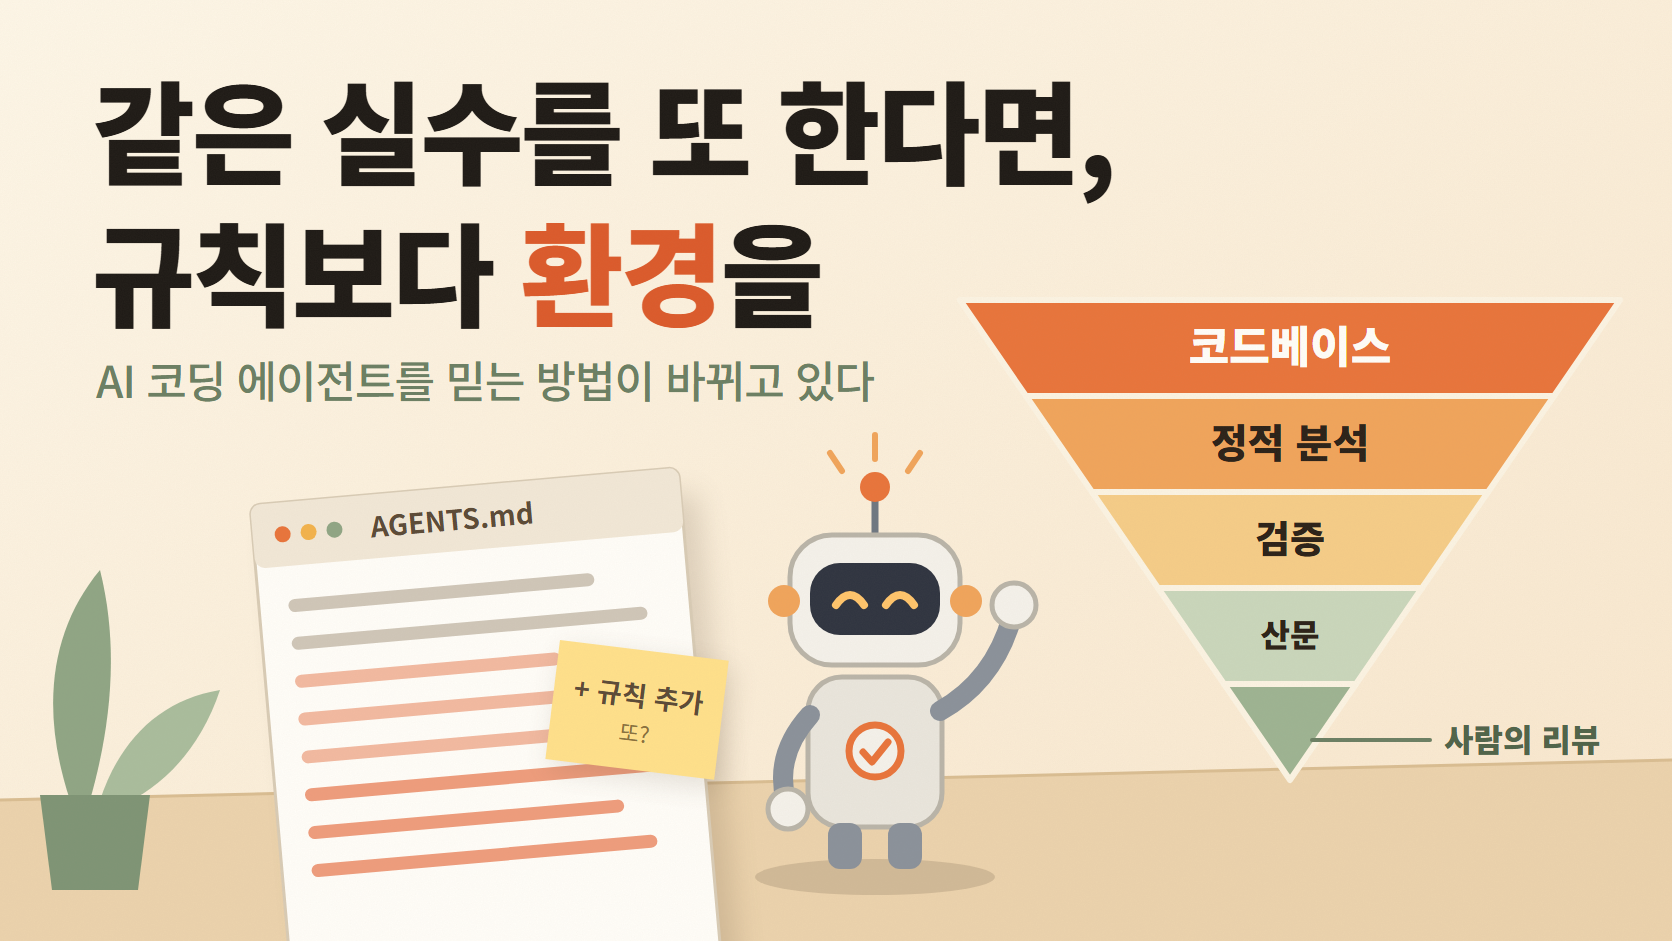
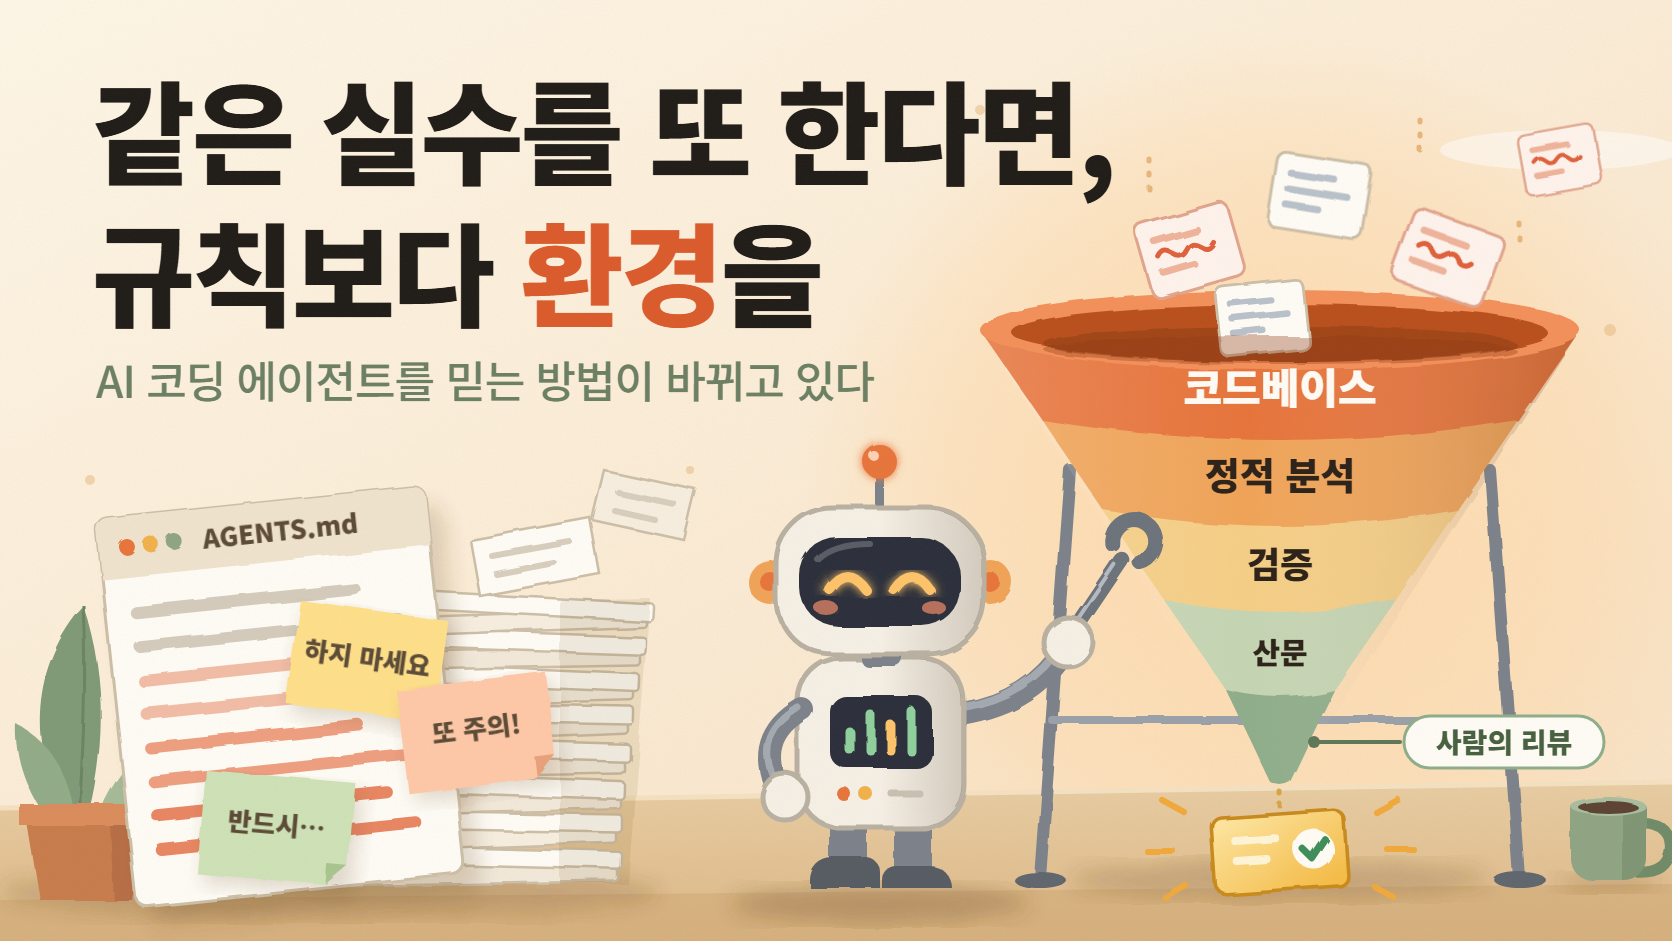
Redraw thumbnail for trusting AI coding agents essay
휑하던 섬네일을 규칙 더미와 깔때기를 조이는 로봇 장면으로 다시 그린다.

diff --git a/_meta/scripts/thumbnail-2026-11-18-trusting-ai-coding-agents.html b/_meta/scripts/thumbnail-2026-11-18-trusting-ai-coding-agents.html
@@ -13,101 +13,270 @@
 <body>
 <svg xmlns="http://www.w3.org/2000/svg" width="1672" height="941" viewBox="0 0 1672 941">
   <defs>
-    <linearGradient id="bg" x1="0" y1="0" x2="1" y2="1">
-      <stop offset="0" stop-color="#FDF6E7"/>
-      <stop offset="1" stop-color="#F8E6CC"/>
+    <linearGradient id="bg" x1="0" y1="0" x2="0.9" y2="1">
+      <stop offset="0" stop-color="#FEF7E8"/>
+      <stop offset="1" stop-color="#F9E3C6"/>
+    </linearGradient>
+    <radialGradient id="sun" cx="0.5" cy="0.5" r="0.5">
+      <stop offset="0" stop-color="#FFD9A8" stop-opacity="0.95"/>
+      <stop offset="0.7" stop-color="#FFD9A8" stop-opacity="0.45"/>
+      <stop offset="1" stop-color="#FFD9A8" stop-opacity="0"/>
+    </radialGradient>
+    <linearGradient id="desk" x1="0" y1="0" x2="0" y2="1">
+      <stop offset="0" stop-color="#E9CDA3"/>
+      <stop offset="1" stop-color="#DDB988"/>
+    </linearGradient>
+    <linearGradient id="coneShade" x1="0" y1="0" x2="1" y2="0">
+      <stop offset="0" stop-color="#FFFFFF" stop-opacity="0.16"/>
+      <stop offset="0.45" stop-color="#FFFFFF" stop-opacity="0"/>
+      <stop offset="1" stop-color="#5A2A0C" stop-opacity="0.26"/>
+    </linearGradient>
+    <linearGradient id="bodyShade" x1="0" y1="0" x2="1" y2="0">
+      <stop offset="0.5" stop-color="#6B5A45" stop-opacity="0"/>
+      <stop offset="1" stop-color="#6B5A45" stop-opacity="0.24"/>
+    </linearGradient>
+    <linearGradient id="gold" x1="0" y1="0" x2="1" y2="1">
+      <stop offset="0" stop-color="#FFE9A6"/>
+      <stop offset="1" stop-color="#F5B93F"/>
     </linearGradient>
     <filter id="grain" x="0" y="0" width="100%" height="100%">
-      <feTurbulence type="fractalNoise" baseFrequency="0.85" numOctaves="2" seed="7"/>
-      <feColorMatrix values="0 0 0 0 0.45  0 0 0 0 0.36  0 0 0 0 0.24  0 0 0 0.10 0"/>
+      <feTurbulence type="fractalNoise" baseFrequency="0.8" numOctaves="2" seed="11"/>
+      <feColorMatrix values="0 0 0 0 0.42  0 0 0 0 0.33  0 0 0 0 0.22  0 0 0 0.11 0"/>
     </filter>
-    <filter id="soft" x="-20%" y="-20%" width="140%" height="140%">
-      <feGaussianBlur stdDeviation="14"/>
+    <filter id="wobble" x="-5%" y="-5%" width="110%" height="110%">
+      <feTurbulence type="fractalNoise" baseFrequency="0.018" numOctaves="2" seed="4" result="n"/>
+      <feDisplacementMap in="SourceGraphic" in2="n" scale="7"/>
     </filter>
+    <filter id="blur10"><feGaussianBlur stdDeviation="10"/></filter>
+    <filter id="blur18"><feGaussianBlur stdDeviation="18"/></filter>
+    <filter id="glow" x="-50%" y="-50%" width="200%" height="200%">
+      <feGaussianBlur stdDeviation="5" result="b"/>
+      <feMerge><feMergeNode in="b"/><feMergeNode in="SourceGraphic"/></feMerge>
+    </filter>
+    <clipPath id="coneClip"><path d="M980 330 H1580 L1290 782 H1270 Z"/></clipPath>
+
+    <!-- small code card -->
+    <g id="card">
+      <rect x="-48" y="-38" width="96" height="76" rx="9" fill="#FFFDF7" stroke="#CDBFA8" stroke-width="3"/>
+      <path d="M-32 -18 H12 M-32 -2 H28 M-32 14 H0" stroke="#B9C2CC" stroke-width="7" stroke-linecap="round"/>
+    </g>
+    <g id="slop">
+      <rect x="-48" y="-38" width="96" height="76" rx="9" fill="#FFF4EE" stroke="#E2A58D" stroke-width="3"/>
+      <path d="M-32 -18 H12 M-32 14 H0" stroke="#F0B49C" stroke-width="7" stroke-linecap="round"/>
+      <path d="M-32 -2 q7 -8 14 0 t14 0 t14 0 t14 0" stroke="#E0603A" stroke-width="5" fill="none" stroke-linecap="round"/>
+    </g>
   </defs>
 
+  <!-- ===== backdrop ===== -->
   <rect width="1672" height="941" fill="url(#bg)"/>
+  <circle cx="1270" cy="500" r="470" fill="url(#sun)"/>
+  <g fill="#FFFFFF" opacity="0.5">
+    
+    <ellipse cx="1560" cy="150" rx="120" ry="20"/>
+  </g>
+  <g fill="#E8B77A" opacity="0.5">
+    <circle cx="980" cy="110" r="5"/><circle cx="1610" cy="330" r="6"/><circle cx="690" cy="470" r="4"/><circle cx="90" cy="480" r="5"/>
+  </g>
+
   <!-- desk -->
-  <path d="M0 800 L1672 760 L1672 941 L0 941 Z" fill="#EBD2AC"/>
-  <path d="M0 800 L1672 760" stroke="#D9BD92" stroke-width="3"/>
+  <path d="M0 808 L1672 782 V941 H0 Z" fill="url(#desk)"/>
+  <path d="M0 808 L1672 782" stroke="#F5E2C2" stroke-width="5"/>
+  <path d="M0 900 L1672 884 V941 H0 Z" fill="#CFA774" opacity="0.5"/>
 
-  <!-- plant -->
-  <g transform="translate(30 560)">
-    <path d="M40 240 C10 150 20 70 70 10 C90 90 80 170 60 240 Z" fill="#8FA584"/>
-    <path d="M70 240 C90 180 130 140 190 130 C170 190 130 230 90 245 Z" fill="#A9BC9C"/>
-    <path d="M10 235 H120 L108 330 H22 Z" fill="#7E9475"/>
-  </g>
+  <g filter="url(#wobble)">
+    <!-- ===== left: the rule pile ===== -->
+    <ellipse cx="330" cy="892" rx="330" ry="26" fill="#6B4A22" opacity="0.22" filter="url(#blur10)"/>
+    <!-- plant -->
+    <g transform="translate(18 600)">
+      <path d="M52 220 C6 150 14 62 66 6 C92 84 86 160 70 220 Z" fill="#7F9A78"/>
+      <path d="M66 6 C70 80 66 150 62 220" stroke="#6A8463" stroke-width="3" fill="none"/>
+      <path d="M78 222 C100 160 142 124 204 116 C182 178 140 214 98 228 Z" fill="#A5BB98"/>
+      <path d="M36 228 C10 196 -4 160 -2 124 C34 142 54 180 58 226 Z" fill="#92AC88"/>
+      <path d="M8 216 H128 L114 300 H22 Z" fill="#C97B4E"/>
+      <path d="M2 204 H134 V226 H2 Z" fill="#DB8C5C"/>
+      <path d="M92 226 H128 L114 300 H96 Z" fill="#6B3A1E" opacity="0.18"/>
+    </g>
+    <!-- leaning stack of sheets -->
+    <g stroke="#CDBFA8" stroke-width="2.5">
+      <rect x="318" y="866" width="300" height="18" rx="4" fill="#F3EADB" transform="rotate(-1 468 875)"/>
+      <rect x="330" y="848" width="292" height="18" rx="4" fill="#FFFDF7" transform="rotate(1.5 476 857)"/>
+      <rect x="312" y="830" width="304" height="18" rx="4" fill="#F7EFE1" transform="rotate(-2 464 839)"/>
+      <rect x="326" y="812" width="296" height="18" rx="4" fill="#FFFDF7" transform="rotate(1 474 821)"/>
+      <rect x="320" y="794" width="300" height="18" rx="4" fill="#F3EADB" transform="rotate(-1.5 470 803)"/>
+      <rect x="334" y="776" width="290" height="18" rx="4" fill="#FFFDF7" transform="rotate(2 479 785)"/>
+      <rect x="322" y="758" width="302" height="18" rx="4" fill="#F7EFE1" transform="rotate(-1 473 767)"/>
+      <rect x="338" y="740" width="292" height="18" rx="4" fill="#FFFDF7" transform="rotate(1.5 484 749)"/>
+      <rect x="330" y="722" width="298" height="18" rx="4" fill="#F3EADB" transform="rotate(-2.5 479 731)"/>
+      <rect x="344" y="704" width="290" height="18" rx="4" fill="#FFFDF7" transform="rotate(1 489 713)"/>
+      <rect x="338" y="686" width="296" height="18" rx="4" fill="#F7EFE1" transform="rotate(-1.5 486 695)"/>
+      <rect x="352" y="668" width="288" height="18" rx="4" fill="#FFFDF7" transform="rotate(2.5 496 677)"/>
+      <rect x="346" y="650" width="294" height="18" rx="4" fill="#F3EADB" transform="rotate(-1 493 659)"/>
+      <rect x="360" y="632" width="286" height="18" rx="4" fill="#FFFDF7" transform="rotate(2 503 641)"/>
+      <rect x="356" y="614" width="290" height="18" rx="4" fill="#F7EFE1" transform="rotate(-2 501 623)"/>
+      <rect x="372" y="596" width="282" height="18" rx="4" fill="#FFFDF7" transform="rotate(3 513 605)"/>
+    </g>
+    <path d="M560 600 L650 598 L628 884 L560 884 Z" fill="#6B4A22" opacity="0.10"/>
+    <!-- flying sheets -->
+    <g stroke="#CDBFA8" stroke-width="2.5" fill="#FFFDF7">
+      <path d="M470 540 l120 -22 l10 56 l-120 22 Z"/>
+      <path d="M604 470 l92 20 l-12 50 l-92 -20 Z" fill="#F7EFE1"/>
+    </g>
+    <path d="M492 556 l78 -14 M496 574 l58 -11" stroke="#D9CFBF" stroke-width="6" stroke-linecap="round"/>
+    <path d="M618 492 l56 12 M614 510 l40 9" stroke="#D9CFBF" stroke-width="6" stroke-linecap="round"/>
 
-  <!-- the ever-growing rule sheet -->
-  <g transform="translate(250 505) rotate(-5)">
-    <rect x="18" y="26" width="430" height="520" rx="10" fill="#5B4A36" opacity="0.18" filter="url(#soft)"/>
-    <rect x="0" y="0" width="430" height="520" rx="10" fill="#FFFDF8" stroke="#D8CBB5" stroke-width="3"/>
-    <rect x="0" y="0" width="430" height="64" rx="10" fill="#F1E7D6"/>
-    <circle cx="30" cy="32" r="8" fill="#E8743B"/><circle cx="56" cy="32" r="8" fill="#F2B24C"/><circle cx="82" cy="32" r="8" fill="#8FA584"/>
-    <text x="118" y="43" font-size="28" font-weight="700" fill="#5B4A36">AGENTS.md</text>
-    <g stroke-linecap="round" stroke-width="13">
-      <path d="M36 104 H330" stroke="#CFC6B8"/>
-      <path d="M36 142 H380" stroke="#CFC6B8"/>
-      <path d="M36 180 H290" stroke="#F2B9A0"/>
-      <path d="M36 218 H360" stroke="#F2B9A0"/>
-      <path d="M36 256 H310" stroke="#F2B9A0"/>
-      <path d="M36 294 H384" stroke="#EE9C7C"/>
-      <path d="M36 332 H340" stroke="#EE9C7C"/>
-      <path d="M36 370 H370" stroke="#EE9C7C"/>
+    <!-- the front sheet -->
+    <g transform="translate(96 520) rotate(-6)">
+      <rect x="14" y="20" width="330" height="390" rx="12" fill="#6B4A22" opacity="0.2" filter="url(#blur10)"/>
+      <rect width="330" height="390" rx="12" fill="#FFFDF7" stroke="#CDBFA8" stroke-width="3"/>
+      <path d="M0 12 a12 12 0 0 1 12 -12 H318 a12 12 0 0 1 12 12 V60 H0 Z" fill="#F0E4CF"/>
+      <circle cx="28" cy="30" r="8" fill="#E8743B"/><circle cx="52" cy="30" r="8" fill="#F2B24C"/><circle cx="76" cy="30" r="8" fill="#8FA584"/>
+      <g stroke-linecap="round" stroke-width="12">
+        <path d="M30 96 H250" stroke="#D5CCBD"/>
+        <path d="M30 130 H290" stroke="#D5CCBD"/>
+        <path d="M30 164 H220" stroke="#F3BDA6"/>
+        <path d="M30 198 H280" stroke="#F3BDA6"/>
+        <path d="M30 232 H240" stroke="#EF9F80"/>
+        <path d="M30 266 H296" stroke="#EF9F80"/>
+        <path d="M30 300 H260" stroke="#EA8663"/>
+        <path d="M30 334 H286" stroke="#EA8663"/>
+      </g>
+    </g>
+    <!-- sticky notes -->
+    <g transform="translate(300 600) rotate(8)">
+      <rect x="6" y="8" width="150" height="104" fill="#6B4A22" opacity="0.2" filter="url(#blur10)"/>
+      <path d="M0 0 H150 V84 L130 104 H0 Z" fill="#FFE08A"/><path d="M150 84 L130 104 V84 Z" fill="#E9C25E"/>
+    </g>
+    <g transform="translate(396 690) rotate(-7)">
+      <rect x="6" y="8" width="150" height="104" fill="#6B4A22" opacity="0.2" filter="url(#blur10)"/>
+      <path d="M0 0 H150 V84 L130 104 H0 Z" fill="#FFC9A8"/><path d="M150 84 L130 104 V84 Z" fill="#E9A27C"/>
+    </g>
+    <g transform="translate(206 770) rotate(5)">
+      <rect x="6" y="8" width="150" height="104" fill="#6B4A22" opacity="0.2" filter="url(#blur10)"/>
+      <path d="M0 0 H150 V84 L130 104 H0 Z" fill="#CFE3B8"/><path d="M150 84 L130 104 V84 Z" fill="#A9C590"/>
+    </g>
+
+    <!-- ===== right: the funnel ===== -->
+    <ellipse cx="1280" cy="880" rx="210" ry="20" fill="#6B4A22" opacity="0.22" filter="url(#blur10)"/>
+    <!-- stand -->
+    <g stroke="#7B828B" stroke-width="12" stroke-linecap="round" fill="none">
+      <path d="M1070 470 L1040 878"/><path d="M1490 470 L1520 878"/>
+      <path d="M1052 720 H1508" stroke="#9AA1A9" stroke-width="8"/>
+    </g>
+    <ellipse cx="1040" cy="880" rx="26" ry="8" fill="#5F666E"/><ellipse cx="1520" cy="880" rx="26" ry="8" fill="#5F666E"/>
+    <!-- cone bands, tip first -->
+    <path d="M1226 690 H1334 L1290 782 Q1280 788 1270 782 Z" fill="#8FAE8B"/>
+    <path d="M1164 600 H1396 L1334 690 Q1280 704 1226 690 Z" fill="#C5D6B4"/>
+    <path d="M1103 510 H1457 L1396 600 Q1280 624 1164 600 Z" fill="#F6CF86"/>
+    <path d="M1042 420 H1518 L1457 510 Q1280 542 1103 510 Z" fill="#F1A458"/>
+    <path d="M980 330 H1580 L1518 420 Q1280 460 1042 420 Z" fill="#E8733A"/>
+    <rect x="960" y="320" width="640" height="480" fill="url(#coneShade)" clip-path="url(#coneClip)"/>
+    <!-- rim -->
+    <ellipse cx="1280" cy="330" rx="300" ry="40" fill="#F4905A"/>
+    <ellipse cx="1280" cy="333" rx="268" ry="29" fill="#B9501F"/>
+    <ellipse cx="1280" cy="344" rx="236" ry="18" fill="#8E3A14" opacity="0.55"/>
+    <!-- cards falling in -->
+    <use href="#slop" transform="translate(1190 250) rotate(-16)"/>
+    <use href="#card" transform="translate(1320 196) rotate(9)"/>
+    <use href="#slop" transform="translate(1448 258) rotate(20)"/>
+    <use href="#card" transform="translate(1262 318) rotate(-6) scale(0.92)"/>
+    <use href="#slop" transform="translate(1560 160) rotate(-10) scale(0.8)"/>
+    <ellipse cx="1280" cy="350" rx="236" ry="14" fill="#8E3A14" opacity="0.35"/>
+    <path d="M1150 190 v-34 M1420 150 v-30 M1520 240 v-26" stroke="#E8B77A" stroke-width="5" stroke-linecap="round" stroke-dasharray="2 12"/>
+
+    <!-- the one that comes out -->
+    <path d="M1280 792 V812" stroke="#D7A547" stroke-width="5" stroke-linecap="round" stroke-dasharray="2 10"/>
+    <g transform="translate(1280 850) rotate(-4)">
+      <rect x="-66" y="-36" width="132" height="76" rx="10" fill="url(#gold)" stroke="#C98A1B" stroke-width="3.5"/>
+      <path d="M-44 -12 H-4 M-44 8 H-14" stroke="#FFF6D8" stroke-width="8" stroke-linecap="round"/>
+      <circle cx="34" cy="2" r="20" fill="#FFFDF7"/>
+      <path d="M24 2 L32 11 L46 -7" stroke="#3E8E5A" stroke-width="7" fill="none" stroke-linecap="round" stroke-linejoin="round"/>
+    </g>
+    <g stroke="#F2A93B" stroke-width="6" stroke-linecap="round">
+      <path d="M1376 812 l22 -12 M1388 850 h26 M1374 886 l20 12"/>
+      <path d="M1184 812 l-22 -12 M1172 850 h-26 M1186 886 l-20 12"/>
+    </g>
+
+    <!-- mug -->
+    <g transform="translate(1570 800)">
+      <ellipse cx="38" cy="82" rx="52" ry="10" fill="#6B4A22" opacity="0.22" filter="url(#blur10)"/>
+      <path d="M70 22 q34 2 30 30 q-4 22 -34 20" stroke="#6F8B69" stroke-width="11" fill="none"/>
+      <path d="M0 6 H76 V58 a22 22 0 0 1 -22 22 H22 a22 22 0 0 1 -22 -22 Z" fill="#8FA584"/>
+      <path d="M52 6 H76 V58 a22 22 0 0 1 -22 22 H52 Z" fill="#4E6A49" opacity="0.25"/>
+      <ellipse cx="38" cy="6" rx="38" ry="9" fill="#A9BE9F"/><ellipse cx="38" cy="7" rx="30" ry="6" fill="#5B4332"/>
+    </g>
+
+    <!-- ===== robot ===== -->
+    <g transform="translate(748 452)">
+      <ellipse cx="132" cy="452" rx="150" ry="20" fill="#6B4A22" opacity="0.28" filter="url(#blur10)"/>
+      <!-- far arm, tightening the stand -->
+      <path d="M214 262 Q286 250 318 196" stroke="#7B828B" stroke-width="24" fill="none" stroke-linecap="round"/>
+      <path d="M214 262 Q286 250 318 196" stroke="#A3AAB1" stroke-width="8" fill="none" stroke-linecap="round" transform="translate(-3 -6)"/>
+      <!-- wrench -->
+      <g transform="translate(322 184) rotate(34)">
+        <path d="M0 0 V-92" stroke="#6C737B" stroke-width="16" stroke-linecap="round"/>
+        <path d="M-17 -100 a22 22 0 1 1 34 0" stroke="#6C737B" stroke-width="15" fill="none" stroke-linecap="round"/>
+        <path d="M-3 -8 V-84" stroke="#B5BBC2" stroke-width="4" stroke-linecap="round"/>
+      </g>
+      <circle cx="320" cy="190" r="25" fill="#F6F1E7" stroke="#B9B1A2" stroke-width="5"/>
+      <!-- legs -->
+      <rect x="82" y="356" width="38" height="70" rx="12" fill="#7B828B"/>
+      <rect x="146" y="356" width="38" height="70" rx="12" fill="#7B828B"/>
+      <path d="M62 428 a22 22 0 0 1 22 -22 h34 a14 14 0 0 1 14 14 v16 H62 Z" fill="#555C64"/>
+      <path d="M134 428 a14 14 0 0 1 14 -14 h34 a22 22 0 0 1 22 22 v0 H134 Z" fill="#555C64"/>
+      <!-- body -->
+      <rect x="50" y="206" width="166" height="170" rx="44" fill="#F6F1E7" stroke="#B9B1A2" stroke-width="5"/>
+      <rect x="52" y="208" width="162" height="166" rx="42" fill="url(#bodyShade)"/>
+      <rect x="82" y="244" width="102" height="72" rx="16" fill="#2B2F3A"/>
+      <g stroke-linecap="round" stroke-width="9">
+        <path d="M102 298 V280" stroke="#8FD19E"/><path d="M122 298 V262" stroke="#8FD19E"/>
+        <path d="M142 298 V272" stroke="#FFC46B"/><path d="M162 298 V258" stroke="#8FD19E"/>
+      </g>
+      <circle cx="96" cy="342" r="7" fill="#E8743B"/><circle cx="118" cy="342" r="7" fill="#F2B24C"/>
+      <path d="M144 342 H172" stroke="#C9C1B2" stroke-width="7" stroke-linecap="round"/>
+      <!-- neck -->
+      <rect x="112" y="188" width="42" height="26" rx="8" fill="#7B828B"/>
+      <!-- near arm on hip -->
+      <path d="M54 258 Q6 286 30 338" stroke="#7B828B" stroke-width="24" fill="none" stroke-linecap="round"/>
+      <path d="M50 256 Q8 282 24 322" stroke="#A3AAB1" stroke-width="7" fill="none" stroke-linecap="round"/>
+      <circle cx="36" cy="344" r="23" fill="#F6F1E7" stroke="#B9B1A2" stroke-width="5"/>
+      <!-- antenna -->
+      <path d="M132 58 V22" stroke="#7B828B" stroke-width="8" stroke-linecap="round"/>
+      <circle cx="132" cy="10" r="17" fill="#E8743B" filter="url(#glow)"/>
+      <circle cx="126" cy="4" r="5" fill="#FFD2B5"/>
+      <!-- ears -->
+      <circle cx="22" cy="130" r="22" fill="#F1A458"/><circle cx="22" cy="130" r="10" fill="#E8743B"/>
+      <circle cx="242" cy="130" r="22" fill="#F1A458"/><circle cx="242" cy="130" r="10" fill="#E8743B"/>
+      <!-- head -->
+      <rect x="28" y="56" width="208" height="146" rx="56" fill="#F6F1E7" stroke="#B9B1A2" stroke-width="5"/>
+      <rect x="30" y="58" width="204" height="142" rx="54" fill="url(#bodyShade)"/>
+      <rect x="52" y="86" width="160" height="88" rx="38" fill="#2B2F3A"/>
+      <path d="M70 108 Q86 92 122 92" stroke="#FFFFFF" stroke-width="6" fill="none" stroke-linecap="round" opacity="0.22"/>
+      <g filter="url(#glow)" stroke="#FFC46B" stroke-width="10" fill="none" stroke-linecap="round">
+        <path d="M82 138 Q100 112 118 138"/><path d="M146 138 Q164 112 182 138"/>
+      </g>
+      <ellipse cx="78" cy="156" rx="12" ry="7" fill="#F28B6B" opacity="0.7"/><ellipse cx="186" cy="156" rx="12" ry="7" fill="#F28B6B" opacity="0.7"/>
     </g>
   </g>
-  <!-- sticky notes: one more rule, again -->
-  <g transform="translate(560 640) rotate(7)">
-    <rect x="6" y="8" width="170" height="120" fill="#5B4A36" opacity="0.16" filter="url(#soft)"/>
-    <rect width="170" height="120" fill="#FFE08A"/>
-    <text x="85" y="56" font-size="27" font-weight="700" fill="#5B4A36" text-anchor="middle">+ 규칙 추가</text>
-    <text x="85" y="92" font-size="22" fill="#8A6F3B" text-anchor="middle">또?</text>
-  </g>
 
-  <!-- inverted pyramid -->
-  <g transform="translate(960 300)">
-    <g stroke="#FBF3E2" stroke-width="6" stroke-linejoin="round">
-      <path d="M0 0 H660 L594 96 H66 Z" fill="#E8743B"/>
-      <path d="M66 96 H594 L528 192 H132 Z" fill="#F0A45B"/>
-      <path d="M132 192 H528 L462 288 H198 Z" fill="#F5CC87"/>
-      <path d="M198 288 H462 L396 384 H264 Z" fill="#C9D6BB"/>
-      <path d="M264 384 H396 L330 480 Z" fill="#9DB392"/>
-    </g>
-    <g text-anchor="middle" font-weight="800" fill="#2B2118">
-      <text x="330" y="63" font-size="44" fill="#FFFDF8">코드베이스</text>
-      <text x="330" y="158" font-size="40">정적 분석</text>
-      <text x="330" y="253" font-size="38">검증</text>
-      <text x="330" y="347" font-size="32">산문</text>
-    </g>
-    <path d="M352 440 H470" stroke="#6B7F63" stroke-width="4" stroke-linecap="round"/>
-    <text x="484" y="452" font-size="32" font-weight="800" fill="#4F6349">사람의 리뷰</text>
+  <!-- labels (kept out of the wobble filter) -->
+  <g text-anchor="middle" font-weight="800" fill="#2B2118">
+    <text x="1280" y="404" font-size="42" fill="#FFFDF7">코드베이스</text>
+    <text x="1280" y="490" font-size="38">정적 분석</text>
+    <text x="1280" y="578" font-size="36">검증</text>
+    <text x="1280" y="664" font-size="30">산문</text>
   </g>
+  <path d="M1318 742 H1400" stroke="#5E7758" stroke-width="4" stroke-linecap="round"/>
+  <circle cx="1314" cy="742" r="6" fill="#5E7758"/>
+  <rect x="1404" y="716" width="200" height="52" rx="26" fill="#FFFDF7" stroke="#8FAE8B" stroke-width="3"/>
+  <text x="1504" y="753" font-size="28" font-weight="800" fill="#46603F" text-anchor="middle">사람의 리뷰</text>
 
-  <!-- robot pointing at the top layer -->
-  <g transform="translate(780 505)">
-    <ellipse cx="95" cy="372" rx="120" ry="18" fill="#5B4A36" opacity="0.18"/>
-    <!-- antenna -->
-    <path d="M95 30 V-6" stroke="#6E7781" stroke-width="7" stroke-linecap="round"/>
-    <circle cx="95" cy="-18" r="15" fill="#E8743B"/>
-    <path d="M62 -34 L50 -52 M95 -46 V-70 M128 -34 L140 -52" stroke="#F0A45B" stroke-width="6" stroke-linecap="round"/>
-    <!-- head -->
-    <rect x="10" y="30" width="170" height="130" rx="42" fill="#F4F1EA" stroke="#B9B4A8" stroke-width="5"/>
-    <rect x="30" y="58" width="130" height="72" rx="30" fill="#2F3440"/>
-    <path d="M56 100 Q70 80 84 100" stroke="#FFC46B" stroke-width="8" fill="none" stroke-linecap="round"/>
-    <path d="M106 100 Q120 80 134 100" stroke="#FFC46B" stroke-width="8" fill="none" stroke-linecap="round"/>
-    <circle cx="4" cy="96" r="16" fill="#F0A45B"/><circle cx="186" cy="96" r="16" fill="#F0A45B"/>
-    <!-- body -->
-    <rect x="28" y="172" width="134" height="150" rx="34" fill="#E9E5DC" stroke="#B9B4A8" stroke-width="5"/>
-    <circle cx="95" cy="246" r="26" fill="#F4F1EA" stroke="#E8743B" stroke-width="7"/>
-    <path d="M83 247 L92 257 L108 237" stroke="#E8743B" stroke-width="7" fill="none" stroke-linecap="round" stroke-linejoin="round"/>
-    <!-- arms -->
-    <path d="M160 206 Q214 176 232 112" stroke="#8A919A" stroke-width="20" fill="none" stroke-linecap="round"/>
-    <circle cx="234" cy="100" r="22" fill="#F4F1EA" stroke="#B9B4A8" stroke-width="5"/>
-    <path d="M30 210 Q-6 250 6 296" stroke="#8A919A" stroke-width="20" fill="none" stroke-linecap="round"/>
-    <circle cx="8" cy="304" r="20" fill="#F4F1EA" stroke="#B9B4A8" stroke-width="5"/>
-    <!-- legs -->
-    <rect x="48" y="318" width="34" height="46" rx="12" fill="#8A919A"/>
-    <rect x="108" y="318" width="34" height="46" rx="12" fill="#8A919A"/>
+  <g transform="translate(96 520) rotate(-6)">
+    <text x="104" y="40" font-size="26" font-weight="800" fill="#5B4A36">AGENTS.md</text>
+  </g>
+  <g font-weight="800" fill="#5B4A36" text-anchor="middle">
+    <text transform="translate(300 600) rotate(8)" x="75" y="58" font-size="26">하지 마세요</text>
+    <text transform="translate(396 690) rotate(-7)" x="75" y="58" font-size="26">또 주의!</text>
+    <text transform="translate(206 770) rotate(5)" x="75" y="58" font-size="26">반드시…</text>
   </g>
 
   <!-- title -->
@@ -117,7 +286,7 @@
   </g>
   <text x="96" y="398" font-size="44" font-weight="500" fill="#6B7F63" letter-spacing="-1">AI 코딩 에이전트를 믿는 방법이 바뀌고 있다</text>
 
-  <rect width="1672" height="941" filter="url(#grain)" opacity="0.55"/>
+  <rect width="1672" height="941" filter="url(#grain)" opacity="0.6"/>
 </svg>
 </body>
 </html>
